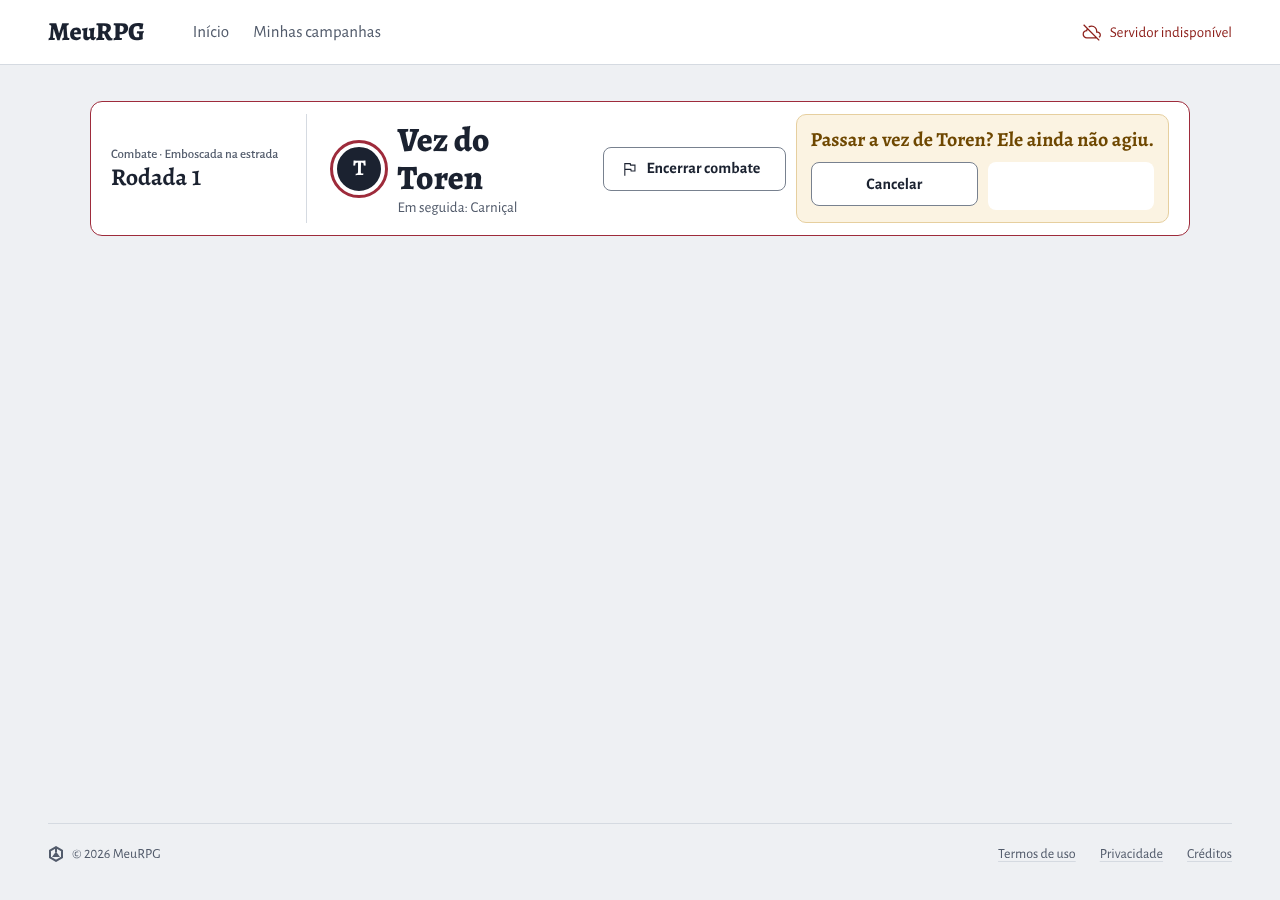
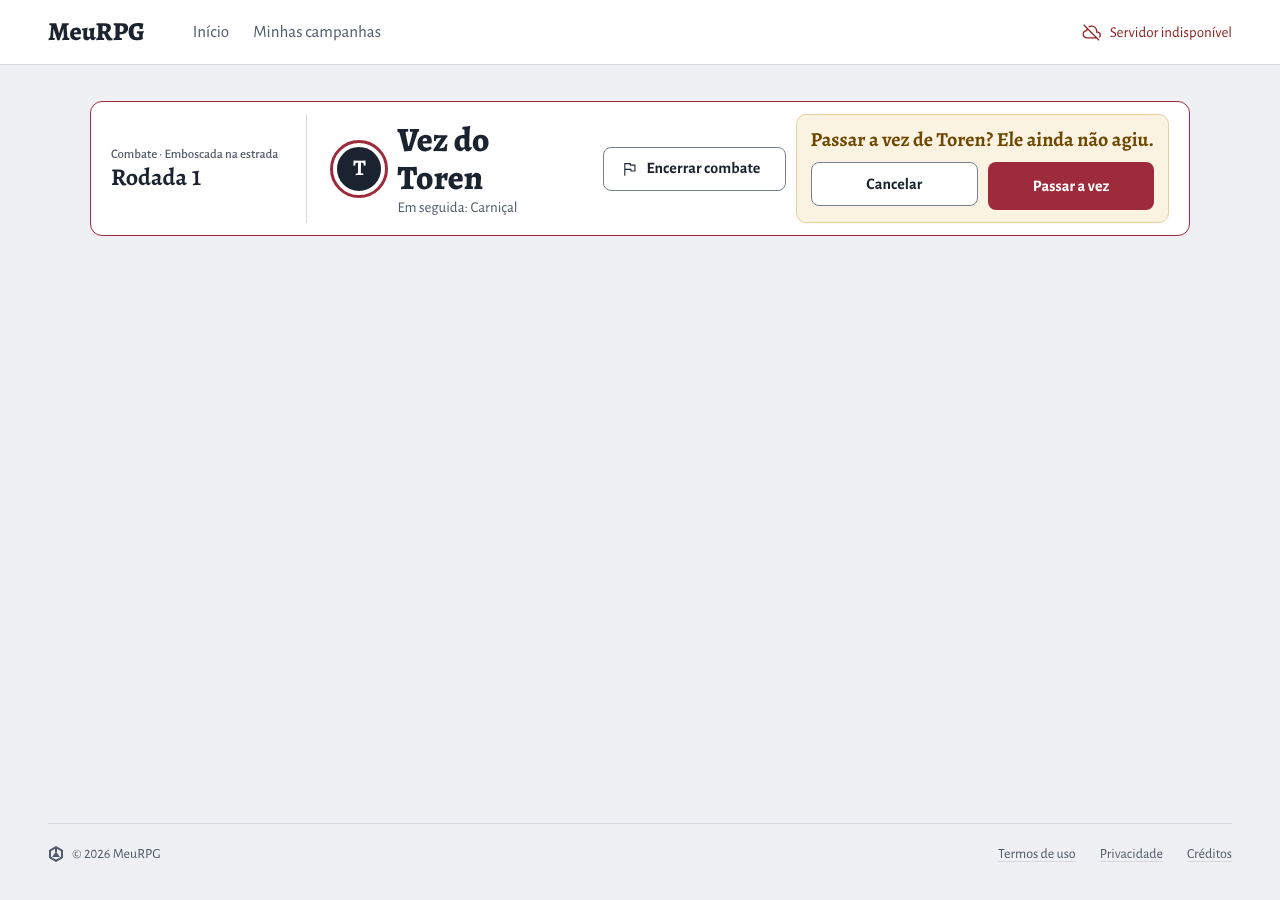
docs(screenshots): combat-rehearsal-1, re-shoot the pass-turn confirmation

Changed region(s): [[0.75, 0.1556, 0.9062, 0.2489]]

diff --git a/combat-rehearsal-1/README.md b/combat-rehearsal-1/README.md
@@ -1,6 +1,6 @@
 # Combat rehearsal fixes (branch `fix/combat-rehearsal-1`)
 
-Before = `origin/main` b8949efd7. After = `fix/combat-rehearsal-1` f7eb911ed. Each screen is the real component (`NpcCard`, `CombatBar`, `JointCard`) mounted on a throw-away page with mocked data (master's view), rendered at 390 and 1280 px. Files are `<item>-<before|after>-<light|dark>-<390|1280>.png`. Dark exists only for the d20 choice.
+Before = `origin/main` b8949efd7. After = `fix/combat-rehearsal-1` f7eb911ed (`idle-after-*` re-shot from e7e7b8049, which fixes the confirmation button label). Each screen is the real component (`NpcCard`, `CombatBar`, `JointCard`) mounted on a throw-away page with mocked data (master's view), rendered at 390 and 1280 px. Files are `<item>-<before|after>-<light|dark>-<390|1280>.png`. Dark exists only for the d20 choice.
 
 | Item | Files | Shows |
 | --- | --- | --- |
@@ -14,4 +14,3 @@ Before = `origin/main` b8949efd7. After = `fix/combat-rehearsal-1` f7eb911ed. Ea
 - The "A vez passou para" line is a screen-reader live region (visually hidden in the app). The `stale-*` shots reveal it with an injected dashed box so it can be compared; "(linha vazia)" in the after shots is a label added by the capture, not by the app.
 - Not visible in any shot: the server rules for the unconscious target (`combat_rollmode.go`, `combat_reaction_window.go`) and the `by_master` attribution; the backend tests cover them.
 - The mocked d20 choice never rolls; "Rolar 2d20 no app" and "Digitar o resultado" are the existing buttons, unchanged.
-- In `idle-after-*` the "Passar a vez" button renders with no visible label (white on white): the `.ask__buttons button { background: var(--mr-surface) }` rule in `next-turn.ts` also paints the filled button, whose label is white. This is how the branch really renders and is shown as is.
